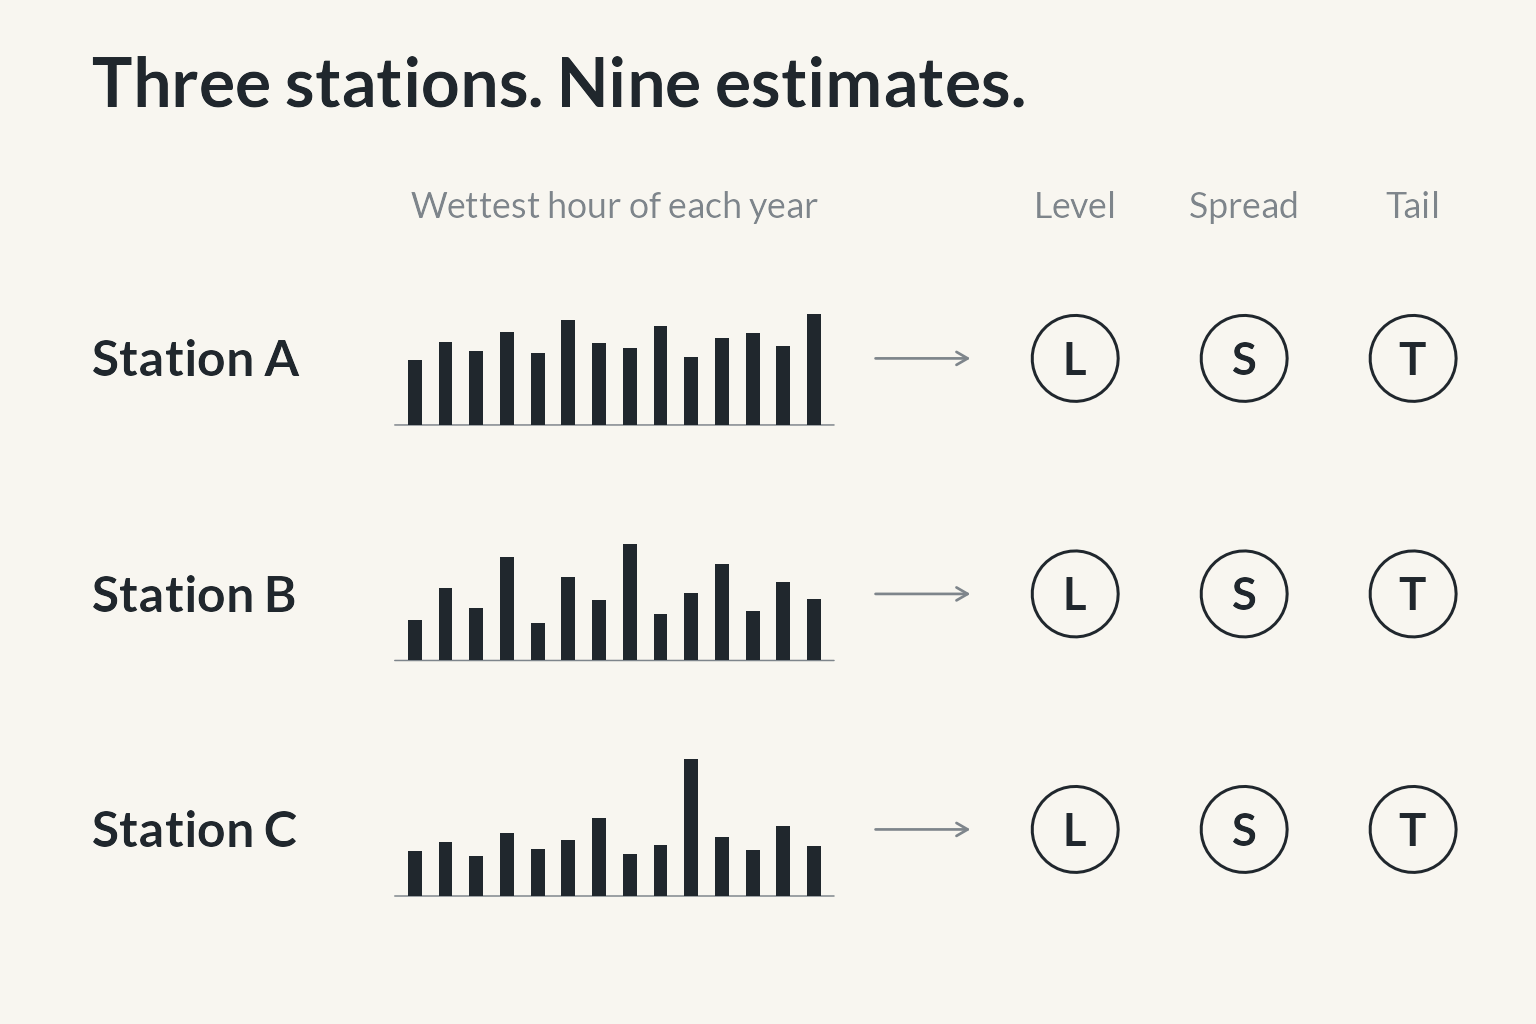
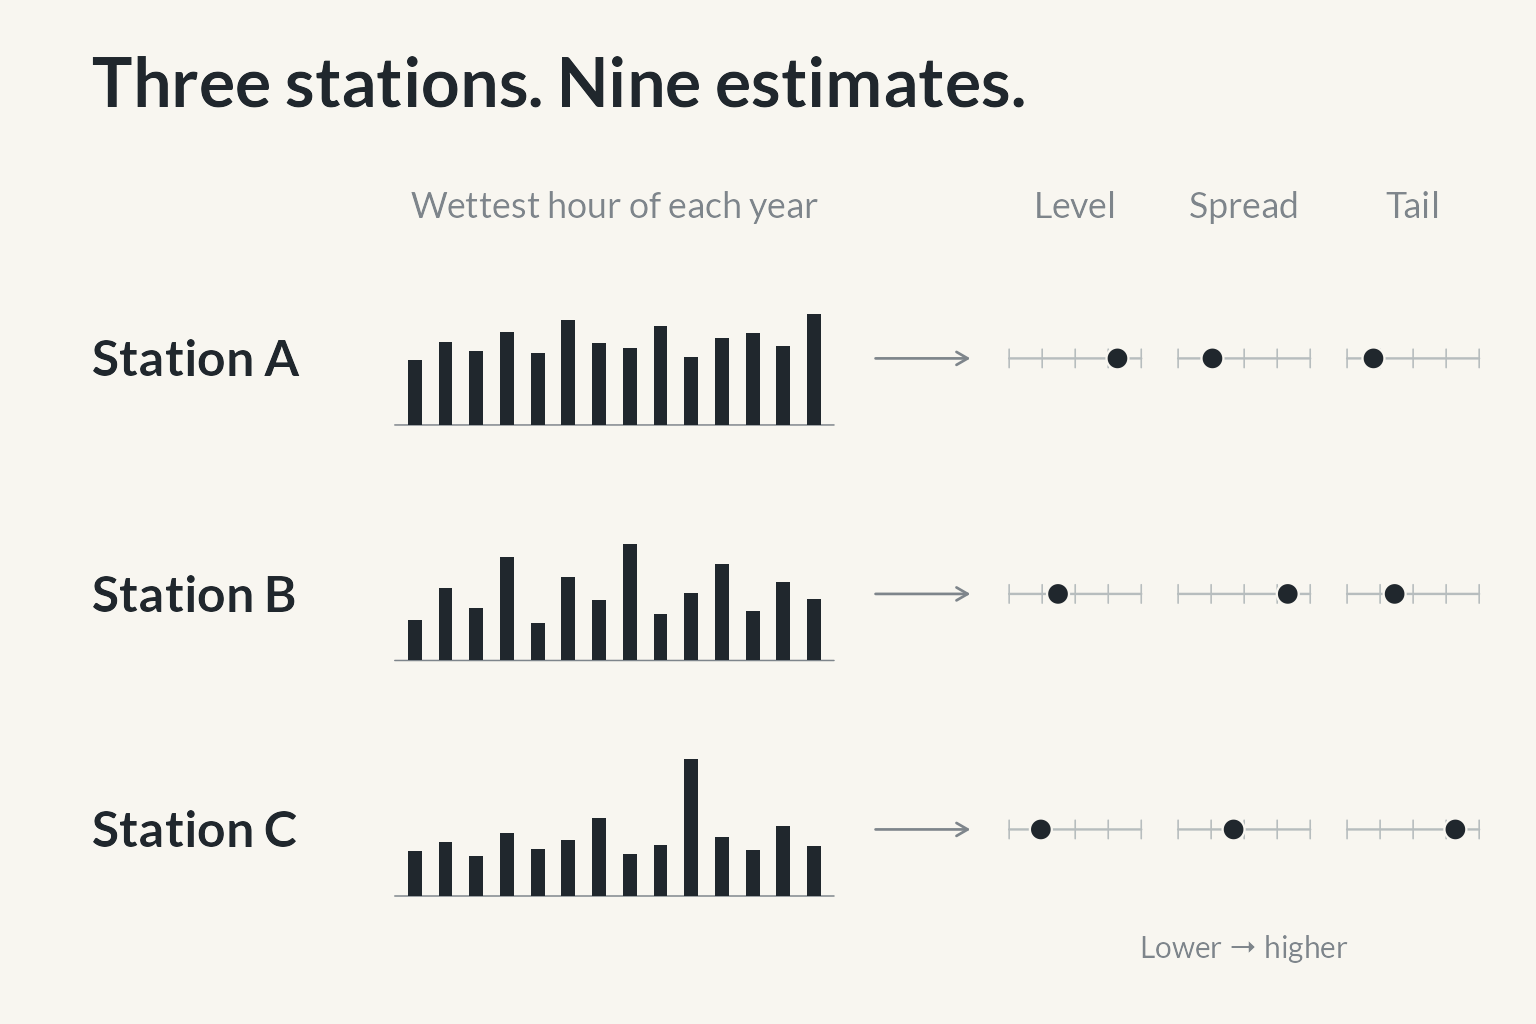
Make differences between station parameter estimates visible

diff --git a/docs/index.html b/docs/index.html
@@ -227,7 +227,8 @@
 <h2></h2>
 <aside class="notes">
 <p><strong>Three stations: rainfall records to nine estimates — 20 seconds.</strong></p>
-<p>Each bar is the wettest hour of one year. Use each station’s history to estimate its level, spread and tail: three stations, nine estimates. Follow one row from observations to the three numbers, then gesture to the other rows. The earlier examples changed one parameter at a time; now every station has all three. These are invented records, not research observations.</p>
+<p>Each bar is the wettest hour of one year. Use each station’s history to estimate its level, spread and tail: three stations, nine estimates. Follow one row from observations to the three numbers, then gesture to the other rows. Each dot marks an estimate on a small scale. Compare down a column: A has the highest level, B the greatest spread and C the heaviest tail; their other estimates differ too. The earlier examples changed one parameter at a time; now every station has all three. These are invented records, not research observations.</p>
+<p>Preparation detail: dot positions are schematic, not numerical GEV fits to the illustrated records. Each parameter has its own scale, held fixed across stations; the grey tracks are axes, not uncertainty intervals.</p>
 <p>Transition: those estimates are our best guesses, but how sure are we? Zoom in on level and spread at one station, holding tail fixed. Keep A-B-C and L-S-T in this order for the later nine-by-nine grid.</p>
 <style type="text/css">
         span.MJX_Assistive_MathML {

diff --git a/design-studies/README.md b/design-studies/README.md
@@ -13,7 +13,7 @@ Working drafts and assets developed with Codex, brought into the talk repository
 
 - `science-slam-draft.qmd`, `flow-notes.qmd`, `preview.css`: presentation and notes sources.
 - `figures/`: first draft figures in PNG/SVG, plus copies of the existing poster and flood photograph.
-- `designs/`: fictional station reveals (`stations-1` to `stations-3`), rainfall-records-to-nine-estimates diagram, simplified Hessian ladder, and contact sheet, in PNG/SVG.
+- `designs/`: fictional station reveals (`stations-1` to `stations-3`), rainfall records leading to nine point estimates on small parameter scales, simplified Hessian ladder, and contact sheet, in PNG/SVG.
 - `make-visuals.R`, `slide-designs.R`: figure-generation sources; run from this directory.
 - `hessian-hill.R`: the live deck's paired normal-approximation and Hessian slides. Generates `designs/hessian-normal.{png,svg}` (hill → normal density) and `designs/hessian-hill.{png,svg}` (identically positioned hill + two-by-two matrix). The toy relative likelihood has an analytically and numerically checked log-Hessian; equal-density contours use the inverse of the full precision matrix. The slide uses a Gaussian-shaped toy likelihood, so the approximation is exact in this illustration. Notes distinguish parameter uncertainty from rainfall variability and conditional precision from marginal variance. Legacy `hessian-hill-matrix.*` and `hessian-hill-preview.png` are retired reference assets. The earlier click-through draft and ZIP snapshots remain historical snapshots.
 - `scripts/build_design_board.py`: builds the self-contained design board and its ZIP archive using relative paths.

diff --git a/CLAUDE.md b/CLAUDE.md
@@ -129,3 +129,4 @@ The earlier 8-slide map (covariance → precision → 24×24 walk) is in git at 
 | 2026-09-24 | Changed station captions to wettest hour of each year; recorded annual maximum hourly precipitation as the response; station talking points name the GEV and introduce location/level, scale/spread and shape/tail without a distribution tutorial | Author confirmed the hourly duration and the intended explanation; resolves the previous daily-label follow-up |
 | 2026-09-24 | Rebuilt the three-slide bridge: rainfall records → nine estimates; hill → normal density contours via the Hessian; identical hill + two-by-two matrix. Removed the extra matrix reveal and updated talking-point notes | Author approved the paired hill/density design and humorous normal-approximation loop; keeps uncertainty in parameter space and gives each slide a distinct role |
 | 2026-09-24 | Added the author's Gauss poster between the station estimates and normal approximation, as a brief full-image interlude | Author supplied a second humorous poster to connect estimation to the normal approximation; the scientific explanation stays on the following hill slide |
+| 2026-09-24 | Replaced identical L/S/T tokens on the stations slide with point estimates on fixed ticked scales, with different positions at all three stations | Author wanted station-specific parameter estimates visible; schematic positions preserve higher level at A, spread at B and tail at C without adding exact numbers or uncertainty intervals |
